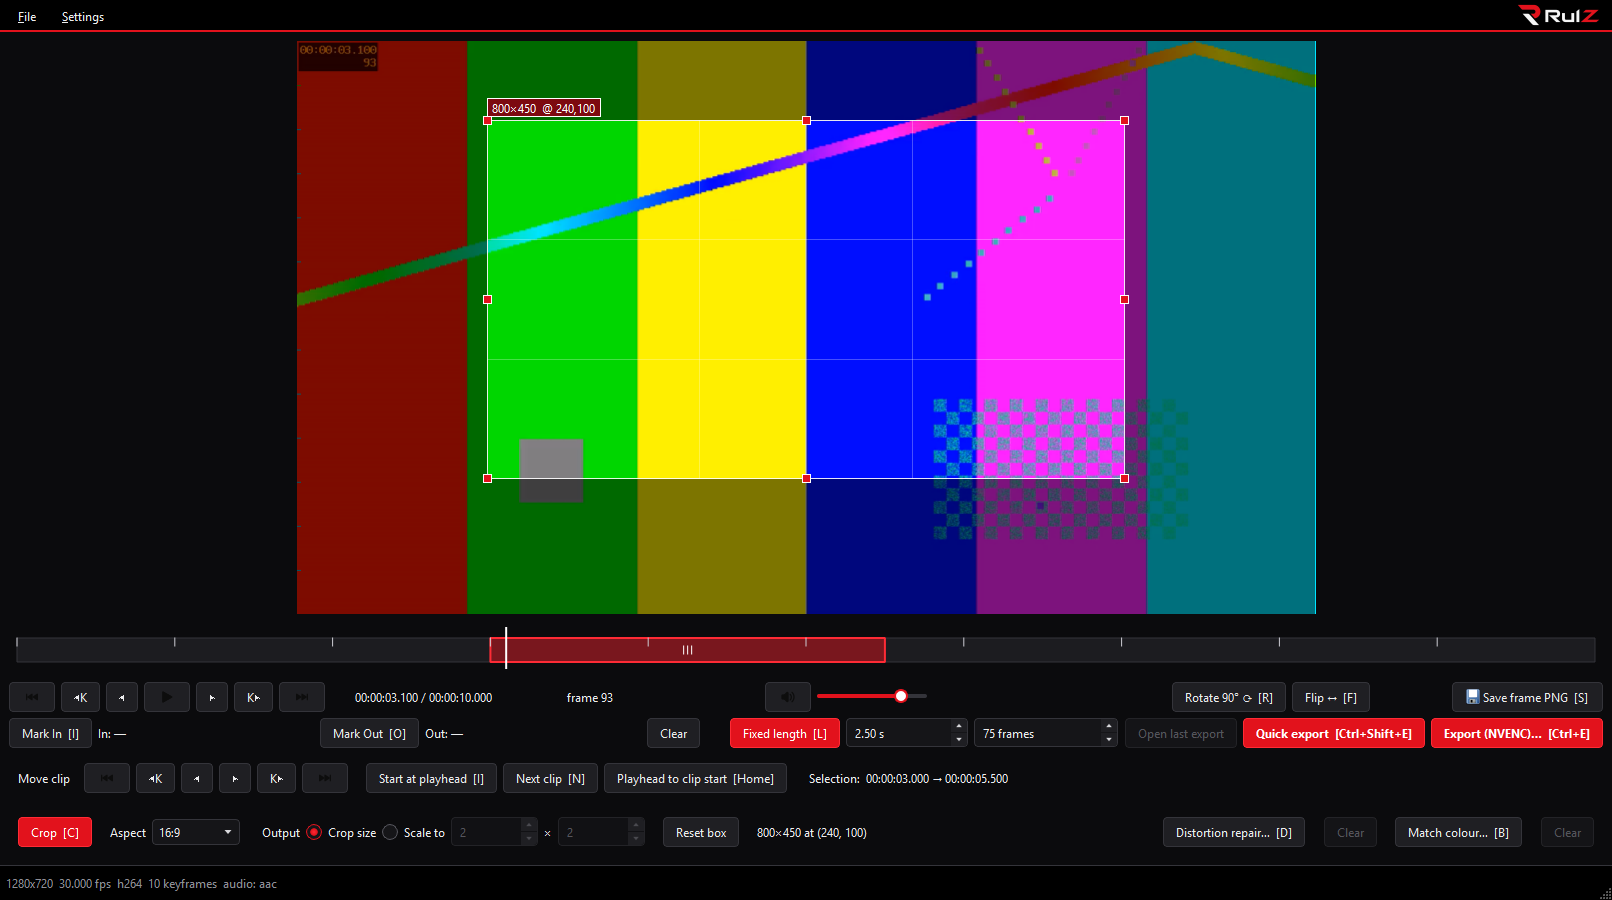
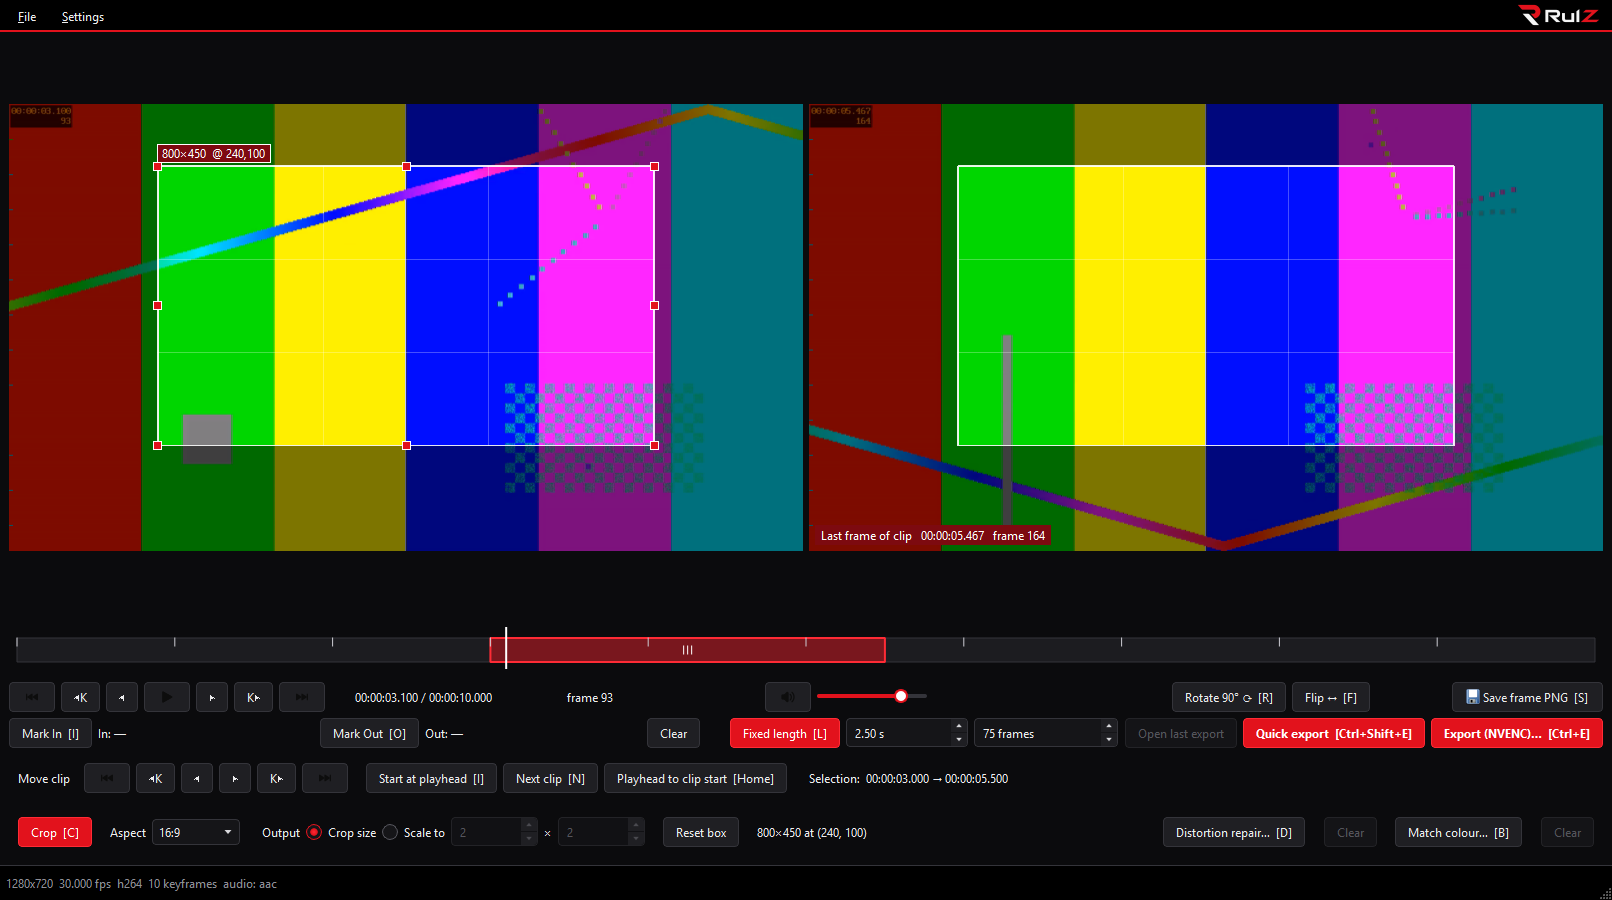
Launcher 1.14.1: Clip Extractor fixed-length screenshots show the two views
New main-dark, main-light and catalog 01 pictures captured from Clip Extractor 1.6.0 with tools/screenshots/capture_clip_extractor.py. The catalog copy of the app's README is synced to 1.6.0 (tools/sync_catalog.py).

diff --git a/catalog/clip-extractor/README.md b/catalog/clip-extractor/README.md
@@ -11,7 +11,7 @@ export.
 
 | Dark | Light |
 | --- | --- |
-| ![RulZ Simple Video Clip Extractor in the dark theme, with a 16:9 crop box and a 2.5 second fixed-length selection](docs/screenshots/main-dark.png) | ![The same view in the light theme](docs/screenshots/main-light.png) |
+| ![RulZ Simple Video Clip Extractor in the dark theme, with a 16:9 crop box and a 2.5 second fixed-length selection: the frame at the playhead on the left, the clip's last frame on the right](docs/screenshots/main-dark.png) | ![The same view in the light theme](docs/screenshots/main-light.png) |
 
 | Choose your look (first launch) | Export dialog | Match colour to a reference photo |
 | --- | --- | --- |
@@ -170,7 +170,10 @@ rotation) are shown above the box and in the crop panel.
 
 - **Aspect** locks the box shape: Free, 16:9, 9:16, 4:3, 3:4, 1:1, 21:9,
   2.39:1, 3:2, 2:3, or Custom (type `W:H`, e.g. `5:4`, or a decimal).
-  Changing the aspect refits the current box around its centre.
+  Picking another aspect grows the box to the largest one of that shape that
+  fits the frame, as close as the frame allows to where the box was (a 9:16
+  box at the left edge becomes the 1:1 box at the left edge). Free keeps the
+  box as it is.
 - **Output**: "Crop size" exports the box at its native pixel size. "Scale to"
   lets you type an output width and height; the box is then locked to that
   shape. With an aspect preset chosen, editing one dimension fills in the other.
@@ -278,6 +281,15 @@ video only: the next one gets your length back).
 
 While fixed length is on:
 
+- The video area shows **two views**. The left one is the normal view: the
+  frame at the playhead, with playback, stepping and the crop box as usual.
+  The right one shows the **last frame of the clip** as it is selected now,
+  with its time and frame number, so you see where the clip ends without
+  moving the playhead. It follows the clip box and the length you type, and
+  shows the same rotation, flip, colour match, distortion repair and crop box
+  (the box can only be changed in the left view). While you drag the clip box
+  on video with slow seeks (4K), it shows the keyframe before that frame until
+  you let go.
 - A red box on the timeline shows the selection. Drag it to move the clip,
   or click anywhere outside it to jump the clip start there. Clicking inside
   the box seeks within the clip. Shift-drag scrubs.

diff --git a/apps/rulz-simple-video-clip-extractor/README.md b/apps/rulz-simple-video-clip-extractor/README.md
@@ -11,7 +11,7 @@ export.
 
 | Dark | Light |
 | --- | --- |
-| ![RulZ Simple Video Clip Extractor in the dark theme, with a 16:9 crop box and a 2.5 second fixed-length selection](docs/screenshots/main-dark.png) | ![The same view in the light theme](docs/screenshots/main-light.png) |
+| ![RulZ Simple Video Clip Extractor in the dark theme, with a 16:9 crop box and a 2.5 second fixed-length selection: the frame at the playhead on the left, the clip's last frame on the right](docs/screenshots/main-dark.png) | ![The same view in the light theme](docs/screenshots/main-light.png) |
 
 | Choose your look (first launch) | Export dialog | Match colour to a reference photo |
 | --- | --- | --- |
